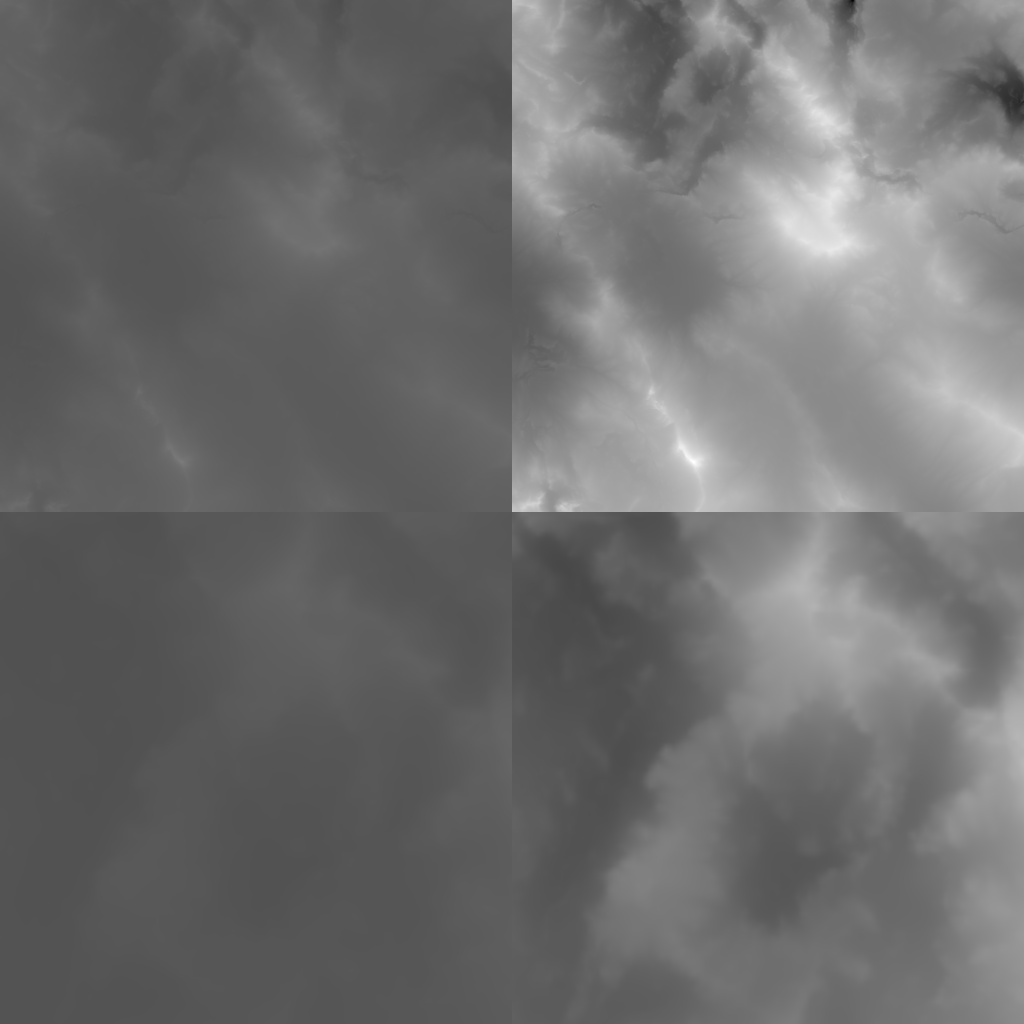
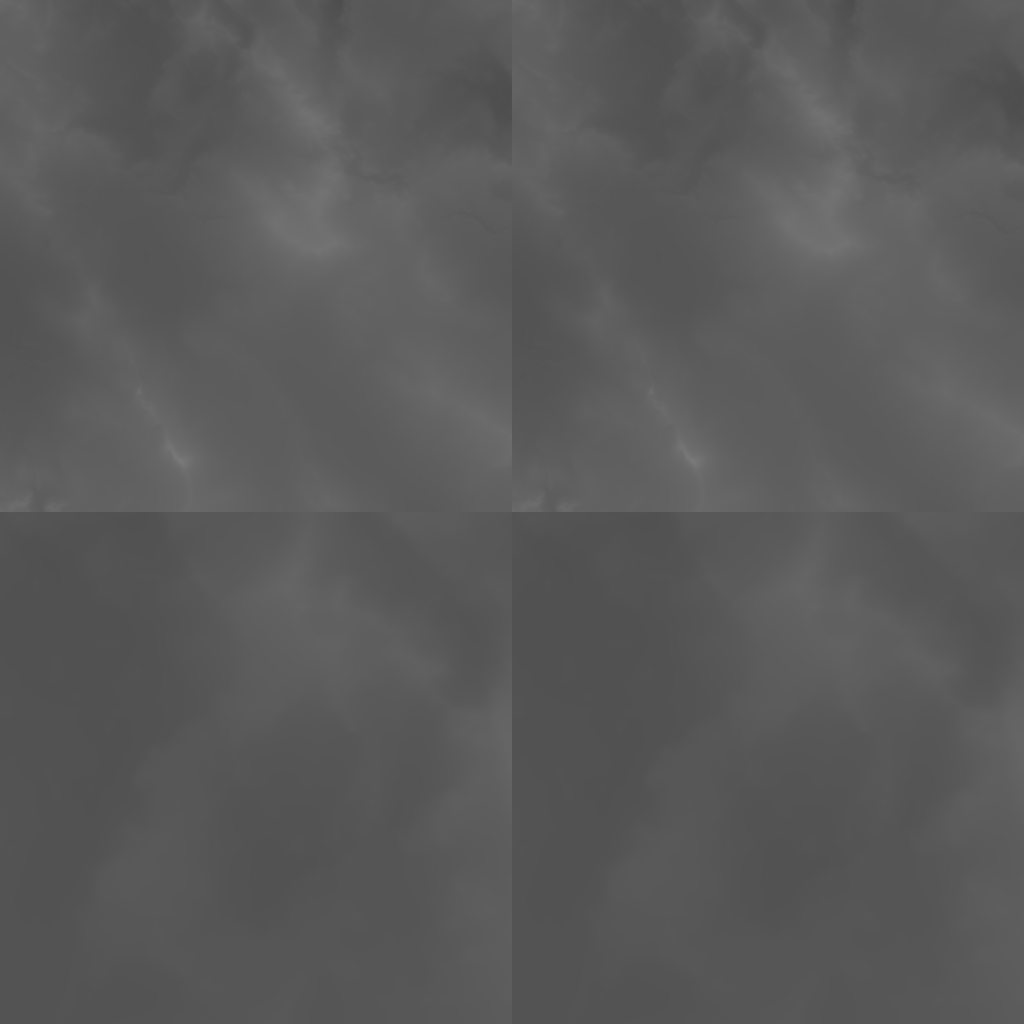
gamma fix

diff --git a/src/core/primitives.cpp b/src/core/primitives.cpp
@@ -96,6 +96,8 @@ namespace LiteFigure
             out.data()[i] = float4(data_png[3 * i] * mul, data_png[3 * i + 1] * mul, data_png[3 * i + 2] * mul, 1);
           else if (channels == 4)
             out.data()[i] = float4(data_png[4 * i] * mul, data_png[4 * i + 1] * mul, data_png[4 * i + 2] * mul, data_png[4 * i + 3] * mul);
+
+          out.data()[i] = float4(powf(out.data()[i].x, gamma), powf(out.data()[i].y, gamma), powf(out.data()[i].z, gamma), out.data()[i].w);
         }
 
         stbi_image_free(data_png);
